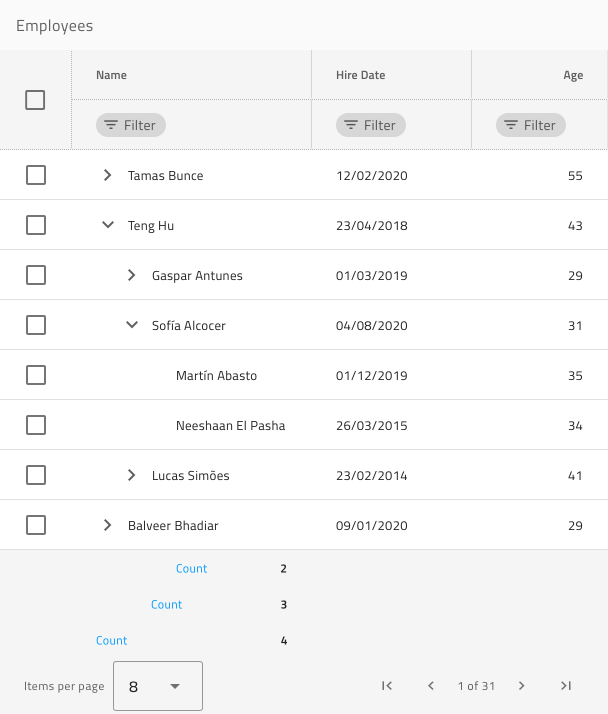
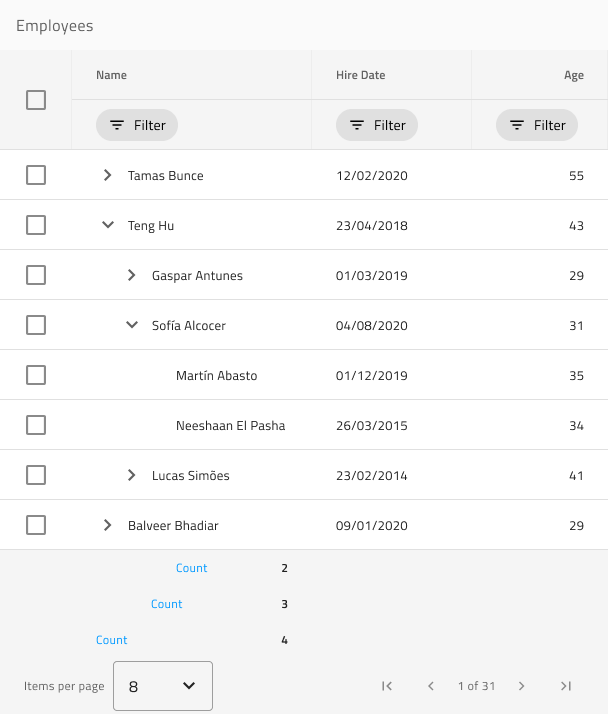
- Added keywords - Text refinement - Removed the list with the Grid functionalities and just referring to the Grid component documentation page - Updated image - Added Grid page in the additional resources

diff --git a/en/patterns/tree-grid.md b/en/patterns/tree-grid.md
@@ -1,47 +1,30 @@
 ---
 title: Tree Grid - Design System Pattern
-_description: The Tree Grid Pattern Symbol represents a Tree Grid Component with sub-levels nested and features applied in a ready-to-use element.
-_keywords: Design Systems, Design Systems UX, UI kit, Sketch, Ignite UI for Angular, Sketch to Angular, Angular, Angular Design System, Export code from Sketch, Design Kits for Angular, Sketch HTML, Sketch to HTML, Sketch UI kits
+_description: The Tree Grid Pattern represents a Tree Grid Component with sub-levels nested and features applied in a ready-to-use element.
+_keywords: Design Systems, Design Systems UX, UI kit, Figma, Figma to Angular, Export code from Figma, Figma to HTML, Figma UI kits, Sketch, Ignite UI for Angular, Sketch to Angular, Angular, Angular Design System, Export code from Sketch, Design Kits for Angular, Sketch HTML, Sketch to HTML, Sketch UI kits, Adobe XD, Adobe XD to Angular, Export code from Adobe XD, Adobe XD to HTML, Adobe XD UI kits
 ---
 
 # Tree Grid
 
-Use the Tree Grid Pattern as an alternative starting point when designing a tabular data layout with parent-child relationship between the records. It provides a full-blown contentwise and stylewise Tree Grid Component, on which all the Grid functionality, provided in the Components Library can be applied.
+The Tree Grid Pattern can be used as an alternative starting point when designing a tabular data layout with a parent-child relationship between the records. It provides a full-blown contentwise and stylewise Tree Grid Component, on which all the Grid functionality provided in the Components Library can be applied.
 
 <img class="responsive-img" src="../images/tree_grid.png" srcset="../images/tree_grid@2x.png 2x" />
+<div class="divider--half"></div>
 
-List of all the Grid functionality:
-- Sorting
-- Filtering
-- Summaries
-- Paging
-- Editing
-- Column Moving
-- Column Resizing
-- Column Hiding
-- Display Density
-- Excel Style Filtering
-- Advanced Filtering
-- GroupBy
-- Pinning
-- Row Selection
-- Row Editing
-- Active Cell
-- Export
-- Toolbar
-
-All Grid features are applicable to the Tree Grid Pattern.
-
+A list of all the Grid functionalities can be found on the [Grid](../components/grid.md) component page, and they are all applicable to the Tree Grid Pattern.
 
 > [!WARNING]
-> In Sketch, after inserting the Tree Grid Pattern, you can trigger `Detach from Symbol` only if you need to alter the number of cells provided, in order to show all the dimensions of your data and insert as many visible records as you want. The individual Components and Features, however, must stay intact and not be detached!
+> In **Figma**, 
 >
-> In Adobe XD you can add more cells than provided by duplicating columns and rows without ever having to ungroup the pattern itself.
+> In **Sketch**, after inserting the Tree Grid Pattern, you can trigger `Detach from Symbol` only if you need to alter the number of cells provided, in order to show all the dimensions of your data and insert as many visible records as you want. The individual Components and Features, however, must stay intact and not be detached!
+>
+> In **Adobe XD** you can add more cells than provided by duplicating columns and rows without ever having to ungroup the pattern itself.
 
 ## Additional Resources
 
 Related topics:
 
+- [Grid](../components/grid.md)
 - [Tree Grid](../components/tree-grid.md)
 
 Our community is active and always welcoming to new ideas.
